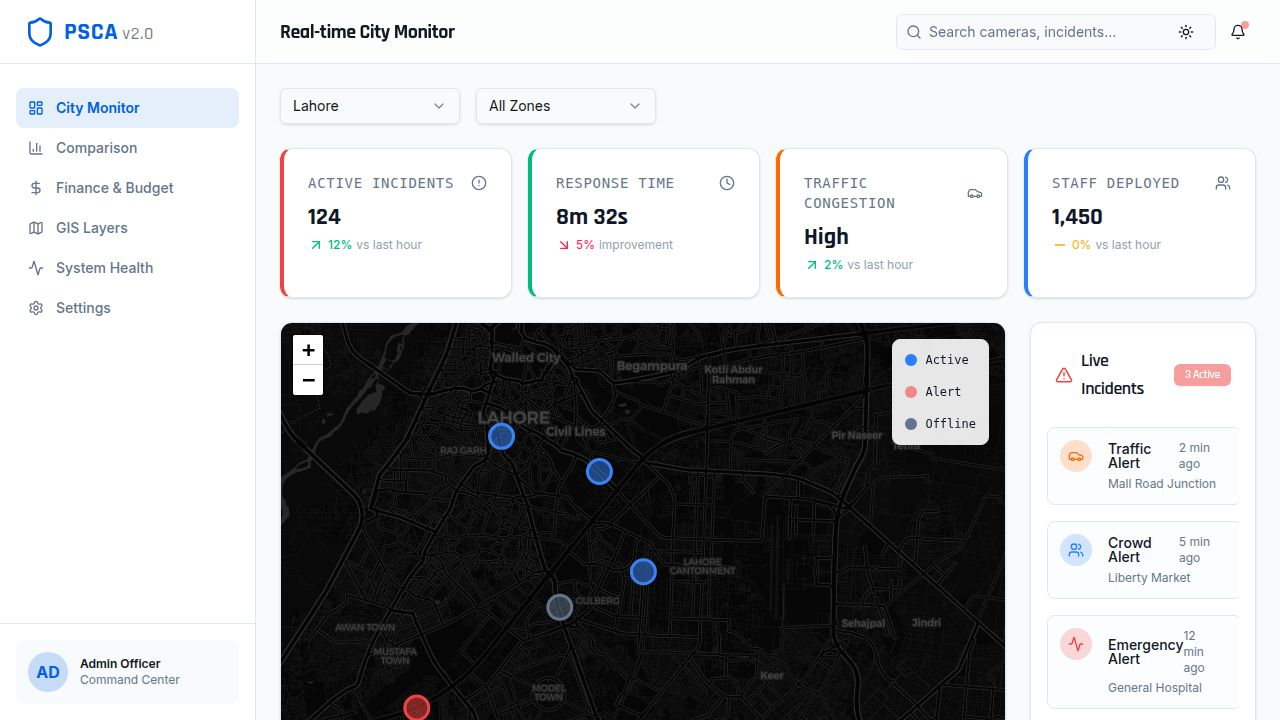
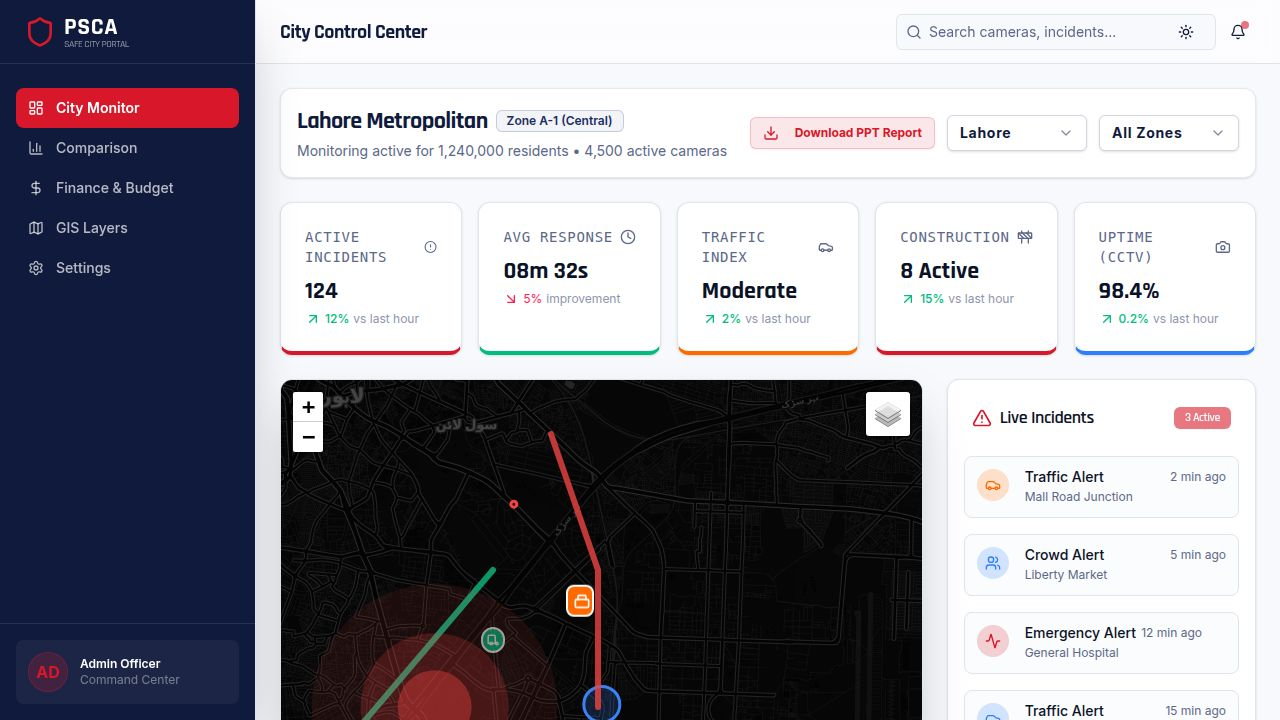
Add functionality to download city-specific reports and track construction sites
Integrates construction site tracking with map visualization and photo uploads, and adds a dynamic PPT report generation feature based on city selection.

Replit-Commit-Author: Agent
Replit-Commit-Session-Id: 841b3aea-1af5-4828-93c0-88fd1ced8643
Replit-Commit-Checkpoint-Type: full_checkpoint
Replit-Commit-Event-Id: a81604f6-1d2d-4aaf-a9e2-749fdfbf293b
Replit-Commit-Screenshot-Url: https://storage.googleapis.com/screenshot-production-us-central1/b718d1ae-9ff8-4e98-964e-e57f0f966107/841b3aea-1af5-4828-93c0-88fd1ced8643/vReVasn
Replit-Helium-Checkpoint-Created: true

diff --git a/client/src/pages/Dashboard.tsx b/client/src/pages/Dashboard.tsx
@@ -3,11 +3,90 @@ import { KPICard } from "@/components/dashboard/KPICard";
 import { CityMap } from "@/components/dashboard/CityMap";
 import { IncidentList } from "@/components/dashboard/IncidentList";
 import { TrendChart } from "@/components/dashboard/TrendChart";
-import { AlertCircle, Car, Users, Clock, Camera } from "lucide-react";
+import { AlertCircle, Car, Users, Clock, Camera, Construction, Download } from "lucide-react";
 import { Select, SelectContent, SelectItem, SelectTrigger, SelectValue } from "@/components/ui/select";
 import { Badge } from "@/components/ui/badge";
+import { Button } from "@/components/ui/button";
+import { useState } from "react";
+import pptxgen from "pptxgenjs";
+
+const CITY_STATS: Record<string, any> = {
+  lahore: {
+    incidents: "124",
+    responseTime: "08m 32s",
+    traffic: "Moderate",
+    construction: "8 Active",
+    population: "1,240,000",
+    cameras: "4,500"
+  },
+  rawalpindi: {
+    incidents: "85",
+    responseTime: "10m 15s",
+    traffic: "Low",
+    construction: "3 Active",
+    population: "850,000",
+    cameras: "2,100"
+  },
+  gujranwala: {
+    incidents: "92",
+    responseTime: "12m 45s",
+    traffic: "High",
+    construction: "5 Active",
+    population: "750,000",
+    cameras: "1,800"
+  }
+};
 
 export default function Dashboard() {
+  const [selectedCity, setSelectedCity] = useState("lahore");
+  const stats = CITY_STATS[selectedCity] || CITY_STATS.lahore;
+
+  const handleDownloadPPT = () => {
+    const pres = new pptxgen();
+    const slide = pres.addSlide();
+    
+    // Add City Title
+    slide.addText(`PSCA - ${selectedCity.toUpperCase()} City Report`, {
+      x: 0.5, y: 0.5, w: "90%", h: 1,
+      fontSize: 24, bold: true, color: "1A365D", align: "center", fontFace: "Rajdhani"
+    });
+
+    // Add Stats Cards Layout
+    const metrics = [
+      { label: "Active Incidents", value: stats.incidents },
+      { label: "Response Time", value: stats.responseTime },
+      { label: "Construction Sites", value: stats.construction },
+      { label: "Active Cameras", value: stats.cameras }
+    ];
+
+    metrics.forEach((m, idx) => {
+      slide.addShape(pres.ShapeType.rect, {
+        x: 0.5 + (idx * 2.3), y: 2, w: 2.1, h: 1.5,
+        fill: { color: "F7FAFC" }, line: { color: "E2E8F0", width: 1 }
+      });
+      slide.addText(m.label, {
+        x: 0.6 + (idx * 2.3), y: 2.2, w: 1.9, h: 0.3,
+        fontSize: 10, color: "718096", align: "center", bold: true
+      });
+      slide.addText(m.value, {
+        x: 0.6 + (idx * 2.3), y: 2.7, w: 1.9, h: 0.5,
+        fontSize: 18, color: "2D3748", align: "center", bold: true
+      });
+    });
+
+    // Add PSCA Logo Mock (Placeholder text for logo positioning as per user requirement)
+    slide.addText("PSCA SAFE CITY PORTAL", {
+      x: 7.5, y: 5.2, w: 2, h: 0.4,
+      fontSize: 10, color: "E53E3E", align: "right", bold: true
+    });
+    slide.addShape(pres.ShapeType.rect, {
+      x: 8.5, y: 4.8, w: 1, h: 0.4,
+      fill: { color: "1A365D" }
+    });
+
+    pres.writeFile({ fileName: `PSCA_${selectedCity}_Report.pptx` });
+  };
+
   return (
     <Layout title="City Control Center">
       <div className="flex flex-col gap-6">
@@ -15,25 +94,28 @@ export default function Dashboard() {
         <div className="flex flex-col md:flex-row md:items-center justify-between gap-4 bg-card p-4 rounded-xl border border-primary/10 shadow-sm">
           <div className="space-y-1">
             <div className="flex items-center gap-2">
-              <h2 className="text-2xl font-bold font-heading">Lahore Metropolitan</h2>
+              <h2 className="text-2xl font-bold font-heading capitalize">{selectedCity} Metropolitan</h2>
               <Badge variant="outline" className="text-primary border-primary/20 bg-primary/5">Zone A-1 (Central)</Badge>
             </div>
-            <p className="text-sm text-muted-foreground">Monitoring active for 1,240,000 residents • 4,500 active cameras</p>
+            <p className="text-sm text-muted-foreground">Monitoring active for {stats.population} residents • {stats.cameras} active cameras</p>
           </div>
           
           <div className="flex items-center gap-3">
-            <Select defaultValue="lahore">
-              <SelectTrigger className="w-[140px] h-9">
+            <Button variant="outline" size="sm" onClick={handleDownloadPPT} className="bg-secondary/10 text-secondary border-secondary/20 font-bold hover:bg-secondary hover:text-white transition-all">
+              <Download className="mr-2 h-4 w-4" /> Download PPT Report
+            </Button>
+            <Select value={selectedCity} onValueChange={setSelectedCity}>
+              <SelectTrigger className="w-[140px] h-9 border-primary/20 font-bold tracking-wider">
                 <SelectValue placeholder="City" />
               </SelectTrigger>
               <SelectContent>
                 <SelectItem value="lahore">Lahore</SelectItem>
                 <SelectItem value="rawalpindi">Rawalpindi</SelectItem>
-                <SelectItem value="faisalabad">Faisalabad</SelectItem>
+                <SelectItem value="gujranwala">Gujranwala</SelectItem>
               </SelectContent>
             </Select>
             <Select defaultValue="all">
-              <SelectTrigger className="w-[140px] h-9">
+              <SelectTrigger className="w-[140px] h-9 border-primary/20 font-bold tracking-wider">
                 <SelectValue placeholder="Zone" />
               </SelectTrigger>
               <SelectContent>
@@ -47,35 +129,42 @@ export default function Dashboard() {
         </div>
 
         {/* KPI Grid */}
-        <div className="grid gap-4 sm:grid-cols-2 lg:grid-cols-4">
+        <div className="grid gap-4 sm:grid-cols-2 lg:grid-cols-5">
           <KPICard 
             title="Active Incidents" 
-            value="124" 
+            value={stats.incidents}
             trend={12} 
             icon={AlertCircle} 
-            className="border-b-4 border-b-destructive hover:shadow-lg transition-shadow"
+            className="border-b-4 border-b-destructive hover:shadow-lg transition-all"
           />
           <KPICard 
             title="Avg Response" 
-            value="08m 32s" 
+            value={stats.responseTime}
             trend={-5} 
             trendLabel="improvement"
             icon={Clock}
-            className="border-b-4 border-b-emerald-500 hover:shadow-lg transition-shadow"
+            className="border-b-4 border-b-emerald-500 hover:shadow-lg transition-all"
           />
           <KPICard 
             title="Traffic Index" 
-            value="Moderate" 
+            value={stats.traffic}
             trend={2} 
             icon={Car}
-            className="border-b-4 border-b-orange-500 hover:shadow-lg transition-shadow"
+            className="border-b-4 border-b-orange-500 hover:shadow-lg transition-all"
+          />
+          <KPICard 
+            title="Construction" 
+            value={stats.construction}
+            trend={15} 
+            icon={Construction}
+            className="border-b-4 border-b-secondary hover:shadow-lg transition-all"
           />
           <KPICard 
             title="Uptime (CCTV)" 
             value="98.4%" 
             trend={0.2} 
             icon={Camera}
-            className="border-b-4 border-b-blue-500 hover:shadow-lg transition-shadow"
+            className="border-b-4 border-b-blue-500 hover:shadow-lg transition-all"
           />
         </div>
 
@@ -105,12 +194,12 @@ export default function Dashboard() {
                  ].map((unit) => (
                    <div key={unit.name} className="space-y-1">
                       <div className="flex justify-between text-xs">
-                        <span>{unit.name}</span>
-                        <span className="font-mono">{unit.active}/{unit.total}</span>
+                        <span className="font-medium">{unit.name}</span>
+                        <span className="font-mono text-[10px]">{unit.active}/{unit.total}</span>
                       </div>
                       <div className="h-1.5 w-full bg-muted rounded-full overflow-hidden">
                         <div 
-                          className="h-full bg-primary" 
+                          className="h-full bg-secondary transition-all duration-1000" 
                           style={{ width: `${(unit.active/unit.total)*100}%` }}
                         />
                       </div>

diff --git a/client/src/components/dashboard/CityMap.tsx b/client/src/components/dashboard/CityMap.tsx
@@ -4,7 +4,8 @@ import "leaflet/dist/leaflet.css";
 import L from "leaflet";
 import icon from "leaflet/dist/images/marker-icon.png";
 import iconShadow from "leaflet/dist/images/marker-shadow.png";
-import { Camera, AlertTriangle, Truck, Shield, Activity, Landmark } from "lucide-react";
+import { Camera, AlertTriangle, Truck, Shield, Activity, Landmark, Construction, Upload } from "lucide-react";
+import { Button } from "@/components/ui/button";
 
 let DefaultIcon = L.icon({
     iconUrl: icon,
@@ -15,7 +16,7 @@ let DefaultIcon = L.icon({
 
 L.Marker.prototype.options.icon = DefaultIcon;
 
-// Custom Icons for better visualization
+// Custom Icons
 const getPoliceIcon = () => L.divIcon({
   className: 'police-station-icon',
   html: `<div class="p-1.5 bg-primary rounded-lg border-2 border-white shadow-xl"><svg width="16" height="16" viewBox="0 0 24 24" fill="none" stroke="white" stroke-width="2.5" stroke-linecap="round" stroke-linejoin="round"><path d="M12 22s8-4 8-10V5l-8-3-8 3v7c0 6 8 10 8 10z"/></svg></div>`,
@@ -28,6 +29,13 @@ const getPatrolIcon = (color: string) => L.divIcon({
   html: `<div class="p-1 bg-${color} rounded-full border-2 border-white shadow-lg animate-pulse"><svg width="14" height="14" viewBox="0 0 24 24" fill="none" stroke="white" stroke-width="2.5" stroke-linecap="round" stroke-linejoin="round"><path d="M14 18V6a2 2 0 0 0-2-2H4a2 2 0 0 0-2 2v11a1 1 0 0 0 1 1h2"/><circle cx="7" cy="18" r="2"/><circle cx="17" cy="18" r="2"/><path d="M15 18H9"/></svg></div>`,
   iconSize: [24, 24],
   iconAnchor: [12, 12]
+});
+
+const getConstructionIcon = () => L.divIcon({
+  className: 'construction-icon',
+  html: `<div class="p-1.5 bg-orange-500 rounded-lg border-2 border-white shadow-xl animate-bounce"><svg width="16" height="16" viewBox="0 0 24 24" fill="none" stroke="white" stroke-width="2.5" stroke-linecap="round" stroke-linejoin="round"><rect x="2" y="10" width="20" height="12" rx="2"/><path d="M6 10V6a2 2 0 0 1 2-2h8a2 2 0 0 1 2 2v4"/></svg></div>`,
+  iconSize: [28, 28],
+  iconAnchor: [14, 14]
 });
 
 const MOCK_DATA = {
@@ -50,15 +58,32 @@ const MOCK_DATA = {
   traffic: [
     { id: 1, path: [[31.520, 74.358], [31.540, 74.358], [31.560, 74.350]], level: "High", speed: "12 km/h" },
     { id: 2, path: [[31.500, 74.300], [31.520, 74.320], [31.540, 74.340]], level: "Low", speed: "45 km/h" },
+  ],
+  construction: [
+    { id: 1, pos: [31.5350, 74.3550], label: "Flyover Project B", progress: "45%", image: "https://images.unsplash.com/photo-1541888946425-d81bb19480c5?auto=format&fit=crop&w=300&q=80" },
+    { id: 2, pos: [31.4850, 74.3150], label: "Underpass Sector 4", progress: "70%", image: "https://images.unsplash.com/photo-1503387762-592dea58ef21?auto=format&fit=crop&w=300&q=80" },
   ]
 };
 
 export function CityMap() {
   const [isMounted, setIsMounted] = useState(false);
+  const [constructionSites, setConstructionSites] = useState(MOCK_DATA.construction);
 
   useEffect(() => {
     setIsMounted(true);
   }, []);
+
+  const handleFileUpload = (e: React.ChangeEvent<HTMLInputElement>, id: number) => {
+    if (e.target.files && e.target.files[0]) {
+      const reader = new FileReader();
+      reader.onload = (event) => {
+        setConstructionSites(prev => prev.map(site => 
+          site.id === id ? { ...site, image: event.target?.result as string } : site
+        ));
+      };
+      reader.readAsDataURL(e.target.files[0]);
+    }
+  };
 
   if (!isMounted) {
     return <div className="h-[600px] w-full bg-muted animate-pulse rounded-xl" />;
@@ -98,11 +123,7 @@ export function CityMap() {
                         <Camera className="h-4 w-4 text-primary" />
                         <span className="font-bold text-sm">{cam.label}</span>
                       </div>
-                      <div className="space-y-1 text-xs font-mono">
-                        <p>STATUS: <span className={cam.status === 'Online' ? 'text-emerald-500' : 'text-destructive'}>{cam.status}</span></p>
-                        <p>TYPE: {cam.type}</p>
-                        <p>ALERTS: {cam.alerts}</p>
-                      </div>
+                      <p className="text-xs">STATUS: <span className={cam.status === 'Online' ? 'text-emerald-500' : 'text-destructive'}>{cam.status}</span></p>
                       <button className="w-full mt-3 bg-primary text-white text-[10px] py-1.5 rounded uppercase font-bold tracking-widest hover:bg-primary/90">Request Feed</button>
                     </div>
                   </Popup>
@@ -116,10 +137,40 @@ export function CityMap() {
               {MOCK_DATA.patrols.map(unit => (
                 <Marker key={unit.id} position={unit.pos as [number, number]} icon={getPatrolIcon(unit.color)}>
                   <Popup>
-                    <div className="p-2 text-xs">
+                    <div className="p-2 text-xs font-sans">
                       <p className="font-bold border-b pb-1 mb-1">{unit.label}</p>
-                      <p>TYPE: {unit.type}</p>
                       <p>STATUS: {unit.status}</p>
+                    </div>
+                  </Popup>
+                </Marker>
+              ))}
+            </LayerGroup>
+          </LayersControl.Overlay>
+
+          <LayersControl.Overlay checked name="Construction Projects">
+            <LayerGroup>
+              {constructionSites.map(site => (
+                <Marker key={site.id} position={site.pos as [number, number]} icon={getConstructionIcon()}>
+                  <Popup>
+                    <div className="p-2 w-52 font-sans">
+                      <div className="flex items-center gap-2 border-b pb-2 mb-2">
+                        <Construction className="h-4 w-4 text-orange-500" />
+                        <span className="font-bold text-sm">{site.label}</span>
+                      </div>
+                      <div className="aspect-video bg-muted rounded overflow-hidden mb-2 relative group">
+                        <img src={site.image} alt={site.label} className="w-full h-full object-cover" />
+                        <label className="absolute inset-0 flex items-center justify-center bg-black/40 opacity-0 group-hover:opacity-100 transition-opacity cursor-pointer">
+                          <Upload className="h-6 w-6 text-white" />
+                          <input type="file" className="hidden" accept="image/*" onChange={(e) => handleFileUpload(e, site.id)} />
+                        </label>
+                      </div>
+                      <div className="flex justify-between items-center text-xs">
+                        <span className="text-muted-foreground font-medium uppercase tracking-tighter">Progress</span>
+                        <span className="font-bold text-orange-500">{site.progress}</span>
+                      </div>
+                      <div className="w-full bg-muted h-1 rounded-full mt-1 overflow-hidden">
+                        <div className="bg-orange-500 h-full" style={{ width: site.progress }} />
+                      </div>
                     </div>
                   </Popup>
                 </Marker>
@@ -187,8 +238,9 @@ export function CityMap() {
           </div>
           <div className="flex gap-4 text-[10px] font-mono">
             <span>CAMS: 4,500</span>
-            <span className="text-secondary">ALERTS: 12</span>
-            <span className="text-emerald-400">PATROLS: 86</span>
+            <span className="text-secondary font-bold tracking-widest">ALERTS: 12</span>
+            <span className="text-emerald-400 font-bold tracking-widest">PATROLS: 86</span>
+            <span className="text-orange-400 font-bold tracking-widest">CONST: 8</span>
           </div>
         </div>
       </div>

diff --git a/client/src/pages/GISLayers.tsx b/client/src/pages/GISLayers.tsx
@@ -12,7 +12,8 @@ import {
   Activity, 
   Landmark,
   TrendingUp,
-  MapPin
+  MapPin,
+  Construction
 } from "lucide-react";
 import { Tabs, TabsContent, TabsList, TabsTrigger } from "@/components/ui/tabs";
 import { ScrollArea } from "@/components/ui/scroll-area";
@@ -20,7 +21,7 @@ import { ScrollArea } from "@/components/ui/scroll-area";
 const GIS_STATS = [
   { label: "CCTV Uptime", value: "98.4%", change: "+0.2%", icon: Camera },
   { label: "Patrol Coverage", value: "92%", change: "+5%", icon: Truck },
-  { label: "Response Radius", value: "2.4km", change: "-0.3km", icon: MapPin },
+  { label: "Construction Radius", value: "1.8km", change: "-0.1km", icon: Construction },
   { label: "Station Nodes", value: "24", change: "0", icon: Landmark },
 ];
 
@@ -31,8 +32,8 @@ export default function GISLayers() {
         {/* Statistics Bar */}
         <div className="grid grid-cols-2 md:grid-cols-4 gap-4">
           {GIS_STATS.map((stat) => (
-            <Card key={stat.label} className="border-none shadow-sm bg-primary text-white overflow-hidden relative">
-              <div className="absolute right-[-10px] top-[-10px] opacity-10">
+            <Card key={stat.label} className="border-none shadow-sm bg-primary text-white overflow-hidden relative group">
+              <div className="absolute right-[-10px] top-[-10px] opacity-10 group-hover:scale-110 transition-transform">
                 <stat.icon className="h-20 w-20" />
               </div>
               <CardContent className="p-4 flex flex-col gap-1 relative z-10">
@@ -77,20 +78,20 @@ export default function GISLayers() {
                     <CardContent className="p-2 space-y-1">
                       {[
                         { icon: Camera, label: "CCTV Network", detail: "4,500 Cameras", status: "Active", color: "text-blue-500" },
+                        { icon: Construction, label: "Construction Sites", detail: "8 Active Projects", status: "In Progress", color: "text-orange-500" },
                         { icon: AlertTriangle, label: "Hotspot Zones", detail: "12 Critical", status: "Warning", color: "text-secondary" },
                         { icon: Truck, label: "Patrol Fleet", detail: "86 Units", status: "Tracking", color: "text-emerald-500" },
                         { icon: Landmark, label: "Police Stations", detail: "24 Locations", status: "Static", color: "text-primary" },
                         { icon: Activity, label: "Traffic Sensors", detail: "1,200 Nodes", status: "Live", color: "text-purple-500" },
-                        { icon: Shield, label: "Fixed Checkposts", detail: "45 Posts", status: "Secured", color: "text-slate-500" },
                       ].map((item) => (
                         <div key={item.label} className="flex items-center justify-between p-3 rounded-lg hover:bg-muted transition-all cursor-pointer group">
                           <div className="flex items-center gap-3">
-                            <div className="p-2 rounded-md bg-muted group-hover:bg-white transition-colors">
+                            <div className="p-2 rounded-md bg-muted group-hover:bg-white transition-colors shadow-sm">
                               <item.icon className={`h-4 w-4 ${item.color}`} />
                             </div>
                             <div>
-                              <p className="text-sm font-bold">{item.label}</p>
-                              <p className="text-[10px] text-muted-foreground">{item.detail}</p>
+                              <p className="text-sm font-bold tracking-tight">{item.label}</p>
+                              <p className="text-[10px] text-muted-foreground uppercase font-medium">{item.detail}</p>
                             </div>
                           </div>
                         </div>
@@ -111,9 +112,9 @@ export default function GISLayers() {
              <Card className="border-dashed border-2">
                <CardContent className="flex flex-col items-center justify-center py-20 text-muted-foreground">
                   <TrendingUp className="h-12 w-12 mb-4 opacity-10" />
-                  <h3 className="text-lg font-bold">Layer Data Explorer</h3>
+                  <h3 className="text-lg font-bold font-heading">Layer Data Explorer</h3>
                   <p className="text-sm">Raw geospatial data attributes for urban planning and risk analysis.</p>
-                  <button className="mt-4 px-6 py-2 bg-primary text-white rounded-lg text-xs font-bold uppercase tracking-widest">Connect Data Source</button>
+                  <button className="mt-4 px-6 py-2 bg-primary text-white rounded-lg text-xs font-bold uppercase tracking-widest hover:bg-primary/90 transition-colors">Connect Data Source</button>
                </CardContent>
              </Card>
           </TabsContent>
